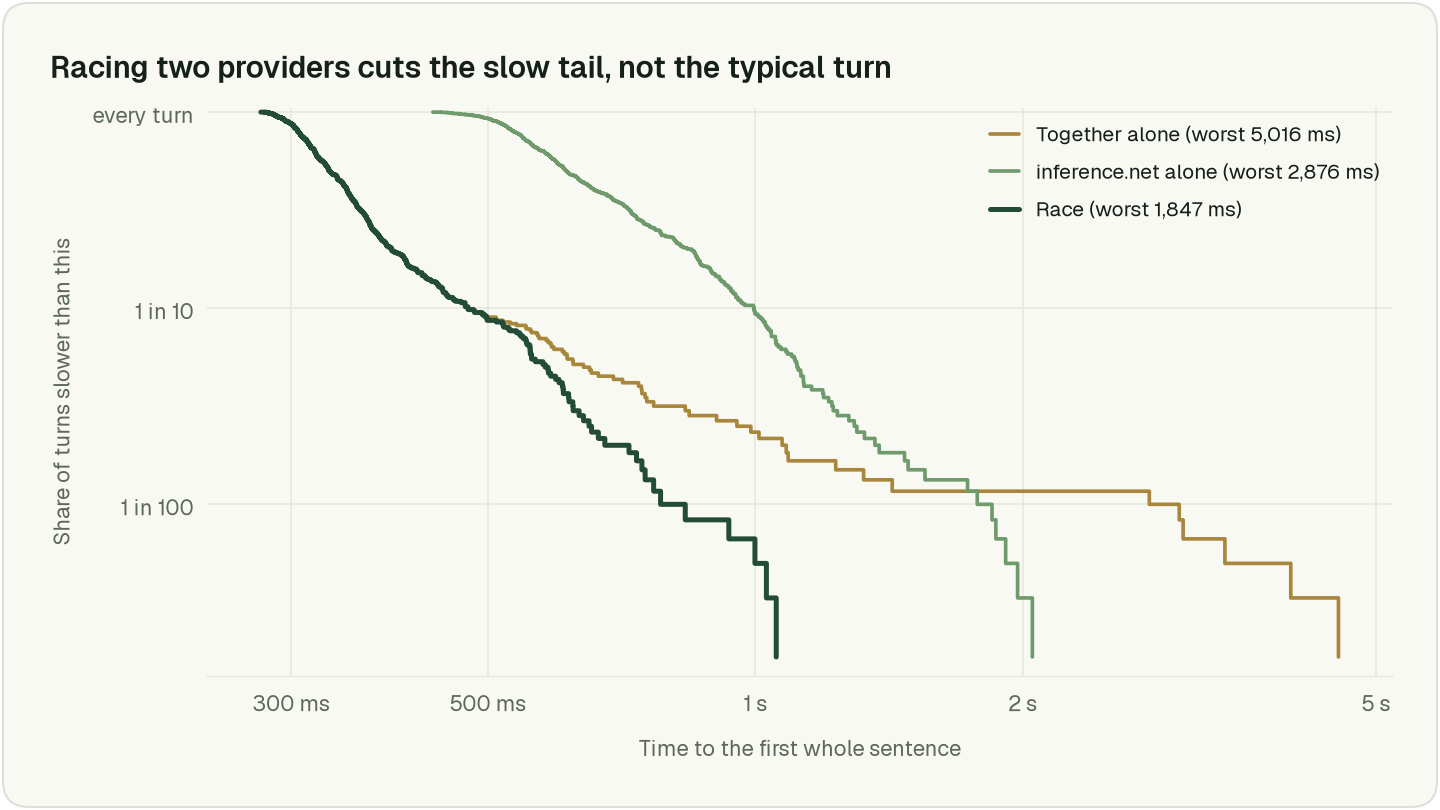
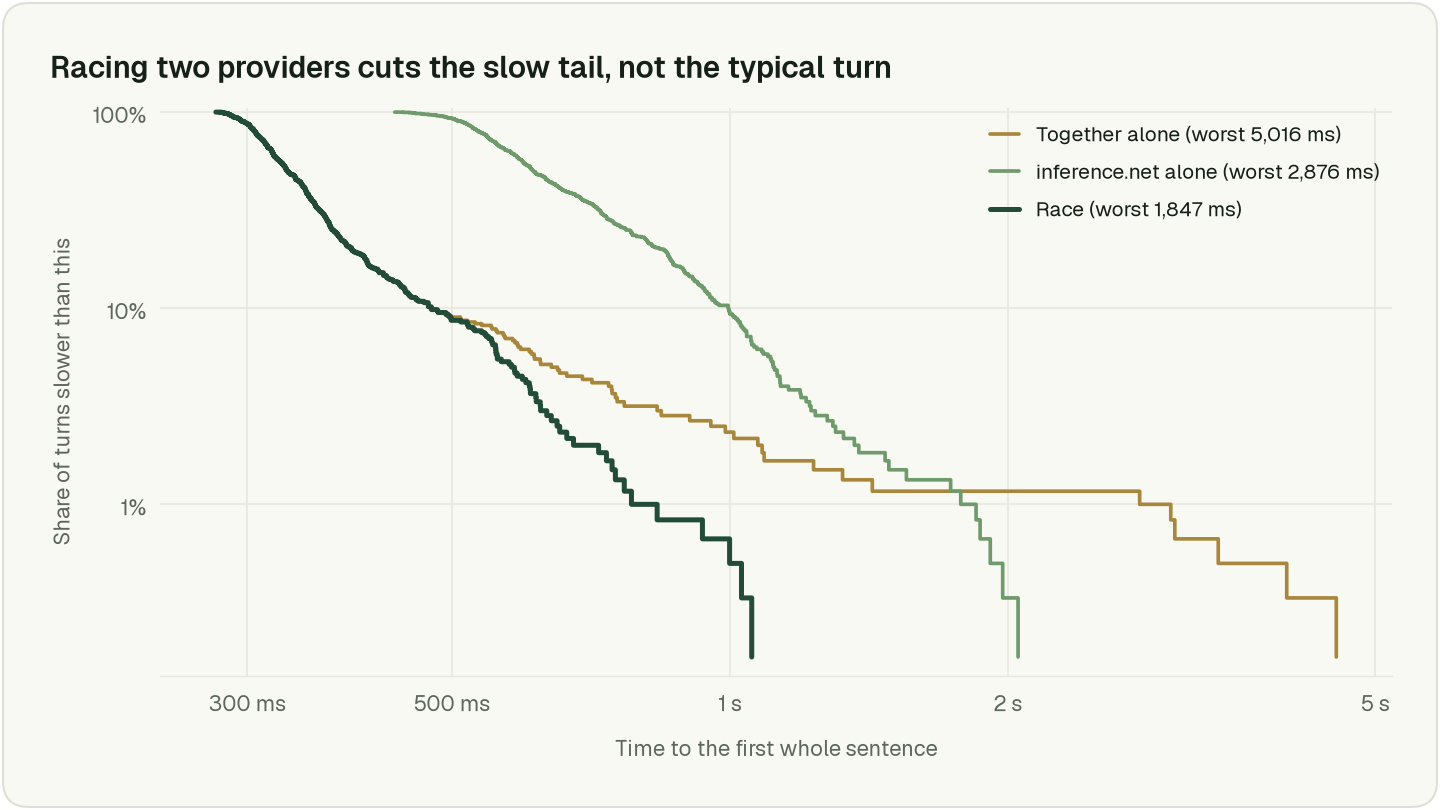
Article 1: link the providers, give every measured rate in %
- Together and inference.net link to their sites at first mention.
- "1 in 43 to 1 in 300" and the other rates are now % (2.3% to 0.3%), in the text,
  both tables and the figure 5 alt text.
- make_figures.py: figure 1's y axis and figure 5's slow-turn axis and labels in %;
  both figures redrawn.

diff --git a/articles/01-hedge-requests/images/make_figures.py b/articles/01-hedge-requests/images/make_figures.py
@@ -114,7 +114,7 @@ def race_series(paired, hosts):
 
 
 def tail(paired, hosts):
-    """Share of turns slower than x, on a log scale so 1 in 100 is visible."""
+    """Share of turns slower than x, on a log scale so 1% is visible."""
     series, colors = race_series(paired, hosts)
     fig = figure(12, 6.75)
     ax = fig.add_subplot()
@@ -131,7 +131,7 @@ def tail(paired, hosts):
     ax.set_ylim(1 / len(paired) * 0.8, 1.05)
     ax.set_yticks([y for y in (1, 0.1, 0.01, 0.001) if y >= 1 / len(paired)])
     ax.yaxis.set_minor_formatter(FuncFormatter(lambda *_: ""))
-    ax.yaxis.set_major_formatter(FuncFormatter(lambda y, _: f"1 in {1 / y:,.0f}" if y < 1 else "every turn"))
+    ax.yaxis.set_major_formatter(FuncFormatter(lambda y, _: f"{100 * y:g}%"))
     ms_axis(ax, [x for vals in series.values() for x in vals if np.isfinite(x)])
     ax.set_xlabel("Time to the first whole sentence")
     ax.set_ylabel("Share of turns slower than this")
@@ -259,12 +259,12 @@ def pipeline(hosts, model):
 
 
 def tradeoff(paired, hosts, prices):
-    """What each strategy costs against what it buys: turns over a second per 1,000, and US$ per 1,000 turns."""
+    """What each strategy costs against what it buys: % of turns over a second, and US$ per 1,000 turns."""
     (a, a_name), (b, b_name) = hosts
     n = len(paired)
     ca = sum(s.cost(p[a], prices[a]) for p in paired) / n
     cb = sum(s.cost(p[b], prices[b]) for p in paired) / n
-    slow = lambda vals: 1000 * sum(1 for v in vals if v > 1000) / n
+    slow = lambda vals: 100 * sum(1 for v in vals if v > 1000) / n
     points = [(f"{a_name} alone", ca, slow(s.t(p[a], "sentence") for p in paired), T["first"]),
               (f"{b_name} alone", cb, slow(s.t(p[b], "sentence") for p in paired), T["second"])]
     for d in (300, 400, 600):
@@ -277,9 +277,9 @@ def tradeoff(paired, hosts, prices):
     ax = fig.add_subplot()
     for name, c, sl, color in points:
         race = name.startswith("Race")
-        ax.scatter(1000 * c, max(sl, 0.8), s=170 if race else 130, color=color, edgecolor=T["surface"], linewidth=2.5, zorder=3)
+        ax.scatter(1000 * c, max(sl, 0.08), s=170 if race else 130, color=color, edgecolor=T["surface"], linewidth=2.5, zorder=3)
     ax.set_yscale("log")
-    ax.yaxis.set_major_formatter(FuncFormatter(lambda y, _: f"{y:g}"))
+    ax.yaxis.set_major_formatter(FuncFormatter(lambda y, _: f"{y:g}%"))
     ax.yaxis.set_minor_formatter(FuncFormatter(lambda *_: ""))
     ax.xaxis.set_major_formatter(FuncFormatter(lambda x, _: f"US${x:.2f}"))
     xs = [1000 * c for _, c, _, _ in points]
@@ -287,21 +287,21 @@ def tradeoff(paired, hosts, prices):
     step = 0.05
     ax.set_xticks([round(step * i, 2) for i in range(int(min(xs) * 0.45 / step) + 1, int(max(xs) * 1.3 / step) + 1)])
     ax.set_xlabel("Cost per 1,000 turns (list prices, 3 Nov 2026)")
-    ax.set_ylabel("Turns over 1 s, per 1,000 turns (log scale)")
+    ax.set_ylabel("Share of turns over 1 s (log scale)")
     ax.grid(True, color=T["grid"], linewidth=1)
     ax.get_ylim()  # settle the autoscaled limits, so the labels below can be measured in pixels
     placed = []
     for name, c, sl, color in sorted(points, key=lambda pt: -pt[2]):  # top first, so a crowded label moves down, not up
         left = name.endswith("alone")  # single providers labelled on the left, so they never sit on top of a hedge's label
         race = name.startswith("Race")
-        xy = (1000 * c, max(sl, 0.8))
+        xy = (1000 * c, max(sl, 0.08))
         px, py = ax.transData.transform(xy)
         low = any(side == left and abs(px - qx) < 260 and 0 < qy - py < 60 for qx, qy, side in placed)  # a label just above
         placed.append((px, py, left))
         dx, (dy_name, dy_value) = -12 if left else 12, (-6, -22) if low else (7, -9)
         ax.annotate(name, xy, xytext=(dx, dy_name), textcoords="offset points", va="center", ha="right" if left else "left",
                     color=T["ink"], fontsize=12, fontweight=600 if race else 500)
-        ax.annotate(f"{sl:,.0f} per 1,000", xy, xytext=(dx, dy_value), textcoords="offset points", va="center",
+        ax.annotate(f"{sl:.1f}%", xy, xytext=(dx, dy_value), textcoords="offset points", va="center",
                     ha="right" if left else "left", color=T["ink2"], fontsize=11)
     head = title(ax, "What each strategy costs, against the slow turns it leaves")
     save(fig, "05-tradeoff.png", head)

diff --git a/articles/01-hedge-requests/article-v1.md b/articles/01-hedge-requests/article-v1.md
@@ -1,26 +1,24 @@
 # Hedged Requests for LLMs: Cutting Tail Latency in Voice Agents
 
-### I sent each voice-agent turn to the same model on two providers and kept whichever streamed first. Here are the p50, p90 and p99 numbers, and the bill.
+### I sent each voice-agent turn to the same model on two providers and kept whichever streamed first. I measured p50, p90 and p99, and what it costs.
 
-People are very good at taking turns in conversation. A study of ten languages found speakers everywhere keep the silence between turns short ([Stivers et al., 2009](https://pubmed.ncbi.nlm.nih.gov/19553212/)), so when a voice agent goes quiet for a couple of seconds, people notice. I wanted to know how often the language model is behind those pauses, and whether a trick Google described in 2013 could fix it. So I measured DeepSeek V4.1 Flash, an open-weights model that's quick enough for voice, on two providers that serve it, Together and inference.net. Even the quicker of the two took over a second to reach the first full sentence on 1 in 43 turns, and its slowest took 5 seconds.
+People are very good at taking turns in conversation. A study of ten languages found speakers everywhere keep the silence between turns short ([Stivers et al., 2009](https://pubmed.ncbi.nlm.nih.gov/19553212/)), so when a voice agent goes quiet for a couple of seconds, people notice. I wanted to know how often the language model is behind those pauses, and whether a trick Google described in 2013 could fix it. So I measured DeepSeek V4.1 Flash, an open-weights model that's quick enough for voice, on two providers that serve it, [Together](https://www.together.ai/) and [inference.net](https://inference.net/). Even the quicker of the two took over a second to reach the first full sentence on 2.3% of turns, and its slowest took 5 seconds.
 
-Then I sent every turn to both providers at once and kept whichever one started talking first. Turns over a second dropped from 1 in 43 to 1 in 300. The worst case went from 5.0 s to 1.7 s. The median barely moved, and that's fine, because the median was never the problem.
+Then I sent every turn to both providers at once and kept whichever one started talking first. Turns over a second dropped from 2.3% to 0.3%, and the worst case went from 5.0 s to 1.7 s. The median barely moved, and it didn't need to, since a typical turn was already quick.
 
 ![A chart of the share of turns slower than a given time, on log scales. Together alone has a tail out to 5 seconds and inference.net alone out to 2.9 seconds. The race drops away just past 1 second.](images/01-tail.png)
 *Share of turns slower than a given time, 600 turns. Each step down the y axis is ten times rarer. The race (green) drops away long before either provider does on its own.*
 
 ## Why the slow turns matter more than the average
 
-For this experiment, the bar is for the model to get its first words out in about 800 milliseconds. Much longer than that and the pause starts to feel wrong on a call, so that's the budget I measured against.
-
 Two terms I'll use a lot:
 
-- **Time to first token**, or time to first word: how long from sending the turn until the model starts replying.
+- **Time to first token (TTFT)**, or time to first word: how long from sending the turn until the model starts replying.
 - **p50, p90, p99**: the time that 50%, 90% and 99% of turns come in under. p50 is the median, the typical turn. p99 is the slowest 1 in 100.
 
-The reason we measure p90 and p99 is because the median tells you little about the user experience with the voice agent. Even if the agent pauses awkwardly 1 out of 10 turns, the user already notices and is annoyed.
+In this article we care more about p90 and p99, the reason being because the median tells you little about the user experience with the voice agent. Even if the agent pauses awkwardly 1 out of 10 turns, the user already notices and is annoyed.
 
-Imagine each conversation has 10 turns, and your p99 is 5 seconds, that means once every 10 calls, one callee gets a pause of 5 seconds, and that puts people off big time. In my opinion, this is one of the most suitable implementation of hedged requests, where latency matters a lot.
+Imagine each conversation has 10 turns, and your p99 is 5 seconds, that means once every 10 calls, one callee gets a pause of 5 seconds, and that puts people off big time. The solution to this is hedged requests: the moment you notice an api is slow, you send it to another server/provider so your eggs aren't all in one basket.
 
 ## The idea is from 2013
 
@@ -33,16 +31,16 @@ Frameworks don't do this for you yet, as far as I can tell. [Pipecat](https://gi
 ## How the race works
 
 ![A diagram of a voice agent: caller speaks, speech to text, then a race box where DeepSeek V4.1 Flash on Together and on inference.net both get the turn, then text to speech, then the caller hears the reply.](images/04-pipeline.png)
-*The race replaces one step of the pipeline. Everything before and after it stays the same.*
+*The race only replaces the language-model step of the pipeline.*
 
 The rules are simple:
 
-1. **Same model on both providers.** Not two different models. That way it doesn't matter who wins: the agent sounds the same and calls tools the same way. Two different models would give the caller a slightly different personality from turn to turn.
-2. **Both get the turn at the same moment.**
-3. **The winner is the first to send real words or a tool call.** Need to differentiate that with the first byte. Some providers send an empty chunk or just the message role straight away, which would "win" and then leave you waiting.
-4. **The winner streams on to the voice. The other one is cancelled**, which closes its connection.
-5. **A provider that fails only loses that race.** I still log it against that provider, so a flaky one shows up.
-6. **Log which provider answered every reply.** You'll want it the first time something sounds off.
+1. Same model on both providers. Then it doesn't matter who wins: the agent sounds the same and calls tools the same way. Two different models would give the caller a slightly different personality from turn to turn.
+2. Both get the turn at the same moment.
+3. The winner is the first to send real words or a tool call. Need to differentiate that with the first byte. Some providers send an empty chunk or just the message role straight away, which would "win" and then leave you waiting.
+4. The winner streams on to the voice. The other one is cancelled, which closes its connection.
+5. A provider that fails only loses that race. I still log it against that provider, so a flaky one shows up.
+6. Log which provider answered every reply. You'll want it the first time something sounds off.
 
 The core of it, in Python with `httpx`. This exact code ran the 600 live races below.
 
@@ -94,13 +92,13 @@ async def race(client, hosts, body, first_word_timeout=2.0):
 
 ## How I measured it
 
-I built a small benchmark, ran it with my own API keys, and put it [on GitHub](https://github.com/bnhquang/llm-race-bench) so you can run it too.
+I built a small benchmark, ran it with my own API keys, and put it [on GitHub](https://github.com/bnhquang/llm-race-bench) so you can run it too. The test call is made up, but shaped like a typical voice agent's: a fictional solar installer ringing a homeowner, with a 13,000-token prompt (instructions plus a generated knowledge base), 13 turns of history, and eight caller lines that take turns being the latest one.
 
-- **A made-up call shaped like a typical voice agent's.** A fictional solar installer ringing a homeowner, a 13,000-token prompt (instructions plus a generated knowledge base), 13 turns of history and eight caller lines that rotate as the latest turn.
-- **600 paired turns.** Each turn went to Together and inference.net at the same moment, and both were read to the end. So for every turn I know exactly what each provider would have done on its own, at the same moment.
-- **600 live races** with the code above, interleaved with the paired turns.
-- **Two clocks:** first word and first whole sentence. A provider can send a word and then stall, and the voice can't start until it has a sentence.
-- **A fair race on paper.** For the paired turns, the winner is whoever sent the first real word, the same rule as the live race. Then I count *that* provider's first sentence. Taking whichever sentence happened to finish first would flatter the race.
+I ran 600 paired turns. Each one went to Together and inference.net at the same moment, and I read both replies to the end, so for every turn I know exactly what each provider would have done on its own. Mixed in with those, I ran 600 live races with the code above.
+
+I timed two things: the first word and the first whole sentence. A provider can send a word and then stall, and the voice can't start until it has a sentence.
+
+To keep the paper race fair, the winner of each paired turn is whoever sent the first real word, the same rule as the live race, and then I count *that* provider's first sentence. Taking whichever sentence happened to finish first would flatter the race.
 
 ## Results
 
@@ -108,68 +106,57 @@ Time to the first whole sentence, in milliseconds, over 600 turns:
 
 ```
                        p50     p90     p99    worst   turns over 1 s
-Together alone         332     475   3,001    5,016   1 in 43
-inference.net alone    613     996   1,847    2,876   1 in 11
-Race (on paper)        332     475     834    1,847   1 in 200
-Race (live code)       337     480     788    1,739   1 in 300
+Together alone         332     475   3,001    5,016   2.3%
+inference.net alone    613     996   1,847    2,876   9.3%
+Race (on paper)        332     475     834    1,847   0.5%
+Race (live code)       337     480     788    1,739   0.3%
 ```
 
 ![Median, p90, p99 and worst turn for Together alone, inference.net alone and the race, on a log scale. The race's median matches Together's at 332 ms; its p99 is 834 ms against Together's 3,001 ms.](images/02-percentiles.png)
-*The median doesn't change. The slow end is where the race earns its keep.*
+*The median stays the same. The race earns its keep at the slow end.*
 
-What stood out to me:
+p50 stays at about 335 ms, because the race takes whoever starts first and that's usually Together, so adding a slower provider doesn't slow down a normal turn. p99 drops from 3,001 to under 850 ms, about four times shorter, and the worst turn goes from 5.0 s to 1.7 s.
 
-- **The median doesn't move, the slow end collapses.** p50 stays at about 335 ms, because Together already wins most turns. p99 drops from 3,001 to under 850 ms, about four times shorter, and the worst turn from 5.0 s to 1.7 s.
-- **The slower provider is the insurance.** inference.net won only 38 of the 600 live races. But of the 14 turns where Together took over a second, the race brought 11 back under a second. Only 3 of the 600 turns were slow on both providers at once.
-- **Racing a slower provider doesn't cost you on a normal turn.** The race takes whoever starts first, so on a typical turn you still get Together's speed.
-- **The live race landed close to the paper version**, 2 turns over a second instead of 3, even though the live races ran at slightly different moments from the paired turns.
+inference.net won only 6% of the live races, but it's the one that fixed the slow turns. Together took over a second on 2.3% of turns, and the race brought about 80% of those back under a second. Only 0.5% of turns were slow on both providers at once. The live race landed close to the paper version: 0.3% of turns over a second instead of 0.5%, even though the live races ran at slightly different moments from the paired turns.
 
 ## Race every turn, or hedge after a delay?
 
-The classic hedge waits a moment before sending the backup, which saves money. So I compared the two from the same 600 turns. Hedging means sending the turn to Together, and only sending it to inference.net if Together has no words after a set delay.
+The classic hedge waits a moment before sending the backup, which saves money. Here that means sending the turn to Together, and only sending it to inference.net as well if Together has no words after a set delay. I compared that with racing, using the same 600 turns.
 
 ```
                      backup sent   p50     p90     p99   turns over 1 s   US$ per 1,000 turns
-Together alone              0%     332     475   3,001         14              0.124
-Hedge after 600 ms          5%     332     475   1,216         14              0.130
-Hedge after 400 ms         11%     332     475   1,120         11              0.138
-Hedge after 300 ms         60%     332     475   1,035          7              0.198
-Race every turn           100%     332     475     834          3              0.247
+Together alone              0%     332     475   3,001       2.3%              0.124
+Hedge after 600 ms          5%     332     475   1,216       2.3%              0.130
+Hedge after 400 ms         11%     332     475   1,120       1.8%              0.138
+Hedge after 300 ms         60%     332     475   1,035       1.2%              0.198
+Race every turn           100%     332     475     834       0.5%              0.247
 ```
 
-![A scatter of cost per 1,000 turns against turns over 1 second per 1,000 turns. inference.net alone has 93 slow turns per 1,000 and Together alone 23. Hedging after 600, 400 and 300 ms sits in between. Racing every turn costs US$0.25 and has 5 slow turns per 1,000.](images/05-tradeoff.png)
+![A scatter of cost per 1,000 turns against the share of turns over 1 second. inference.net alone leaves 9.3% of turns slow and Together alone 2.3%. Hedging after 600, 400 and 300 ms sits in between. Racing every turn costs US$0.25 and leaves 0.5%.](images/05-tradeoff.png)
 *Each strategy's cost against the slow turns it leaves behind. Racing is the most expensive and leaves the fewest slow turns.*
 
-Racing every turn came out ahead on the slow end. Hedging after 300 ms is a fair middle ground: about 80% of the race's cost, but 7 slow turns instead of 3.
+Racing every turn came out ahead on the slow end. Hedging after 300 ms is a fair middle ground: about 80% of the race's cost, but 1.2% of turns slow instead of 0.5%.
 
-Hedging late barely helps. After 600 ms the backup went out on 5% of turns, and the number of turns over a second didn't change at all. A backup sent at 600 ms still needs its own half a second or so to answer, so by the time it does, you're past a second anyway.
+Hedging late barely helps. After 600 ms the backup went out on 5% of turns, and the share of turns over a second didn't change at all. A backup sent at 600 ms still needs its own half a second or so to answer, so by the time it does, you're past a second anyway.
 
 The delay also has to suit your network. From Sydney, Together never answered inside 200 ms, so hedging at 100 or 200 ms sends the backup on every single turn. That costs the same as racing and does slightly worse.
 
-For voice, I race. The budget is short, and a 300 ms wait before the backup even leaves already uses up a good chunk of it. Racing also keeps both providers' prompt caches warm. A fallback you only call now and then is more likely to be cold, and as you'll see below, a cold cache is slow.
+For voice, I race. The budget is short, and a 300 ms wait before the backup even leaves already uses up a good chunk of it. Racing also keeps both providers' prompt caches warm. A fallback you only call now and then is more likely to have a cold cache, and that makes it slow.
 
 One caveat: the hedge rows are worked out from the paired turns, treating inference.net's time as if it had been sent a few hundred milliseconds later. I didn't run them live.
 
-## What it costs
+## The cost trade-off
 
-You pay both providers on every turn, loser included. Every racer reads the full 13,000-token prompt whether it wins or not.
+It goes without saying, your LLM cost will grow by the number of candidates you have racing. This could be worth it going from a single provider to a two-provider race, given how much the tail has improved in the aforementioned experiment.
 
-At each provider's list price on 3 Nov 2026 (US$ per million tokens: Together 0.30 in, 0.006 cached, 1.20 out; inference.net 0.08 in, 0.008 cached, 0.55 out), that comes to:
-
-- Together alone: US$0.124 per 1,000 turns
-- inference.net alone: US$0.123 per 1,000 turns
-- Racing both: US$0.247 per 1,000 turns
-
-For a ten-turn call, that's about 0.25 US cents raced against about 0.12 cents for one provider. These numbers bill the cancelled reply in full, so they're the worst case. Whether a provider stops billing when you close the stream is up to them, and I haven't measured it.
-
-Next to speech-to-text, the voice and the phone line, this is small change. Doubling the cheapest item on the bill to fix the thing callers notice most looks like an easy trade to me.
+However, each provider you add pays back less than the one before it. For example, adding inference.net next to Together took the turns over a second from 2.3% to 0.5%. A third provider could only ever fix that last 0.5%, and your bill is now 3x what it was.
 
 ## Should you do it?
 
-I'd do it if you're building something real-time like voice, you've got a tight latency budget, and your model is on at least two independent providers. I'd skip it if your traffic is low enough that you'll never see the tail, your model only lives on one provider, or every fraction of a cent counts.
+For voice I'd do it, as long as your model is on at least two independent providers. I'd skip it if your traffic is too low to ever hit the tail, or if the model you're using is crazy expensive.
 
 ## Takeaways
 
-If I had to sum it up: with an open-weights model, the provider decides your slow turns more than the model does. Racing two of them took my turns over a second from 1 in 43 to 1 in 300 and didn't change the typical turn.
+The main thing I learned is that with an open-weights model, your slow turns come from the provider more than the model. Racing two providers took my turns over a second from 2.3% to 0.3%, and the typical turn stayed the same.
 
 The benchmark is [on GitHub](https://github.com/bnhquang/llm-race-bench) if you want to run it with your own keys. If you try it with other models or providers, I'd like to see what you get.
